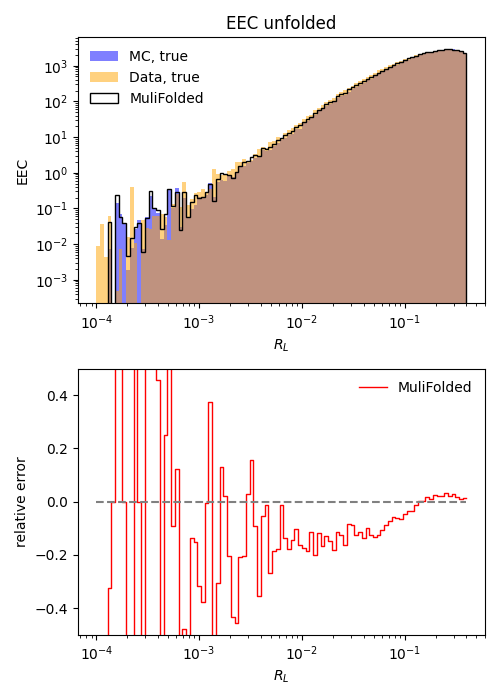
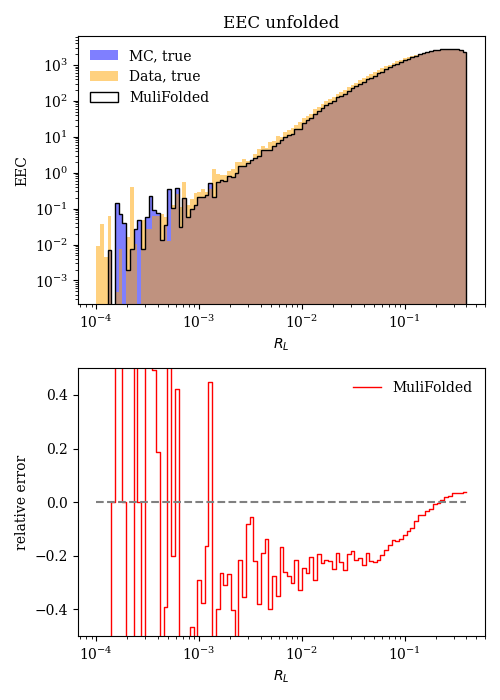
risky git commit, trying to merge hiccup and perlmutter changes

diff --git a/pp_unfolding/.ipynb_checkpoints/unfold-checkpoint.py b/pp_unfolding/.ipynb_checkpoints/unfold-checkpoint.py
@@ -112,6 +112,7 @@ theta0 = synth_df[all_features].to_numpy()
 
 
 ############# RL cut
+"""
 RL_min = 5 * (10**-3)
 
 for row in theta_unknown:    
@@ -121,6 +122,7 @@ for row in theta_unknown:
 for row in theta0:    
     if row[4] < RL_min:
         row[3:] = [-9999 for i in range(3)]
+        """
 
 
 
@@ -233,11 +235,11 @@ elif flags.level == 'jet':
     # theta_unknown = theta_unknown[theta_unknown[:,0,4] != -1]
     # theta0 = theta0[theta0[:,0,4] != -1]
     
-    theta_unknown_G = theta_unknown[:, :, 0:3]
-    theta_unknown_S = theta_unknown[:, :, 3:7]
+    theta_unknown_G = theta_unknown[:, :, 0:2]
+    theta_unknown_S = theta_unknown[:, :, 3:5]
 
-    theta0_G = theta0[:, :, 0:3]
-    theta0_S = theta0[:, :, 3:7]
+    theta0_G = theta0[:, :, 0:2]
+    theta0_S = theta0[:, :, 3:5]
     
 
     """
@@ -309,7 +311,7 @@ N = len(obs_features)
 
 binning = [np.logspace(-5,0,100),np.logspace(-4,0,100),np.linspace(20,40,100)]
 
-fig, axes = plt.subplots(1, 3, figsize=(15,4))
+fig, axes = plt.subplots(1, 2, figsize=(15,4))
 
 for i,ax in enumerate(axes.ravel()):
     if (i >= N): break
@@ -338,7 +340,7 @@ plt.close()
 
 binning = [np.linspace(-0.2,1.2,100),np.linspace(-0.2,1.2,100),np.linspace(-0.2,1.2,100)]
 
-fig, axes = plt.subplots(1, 3, figsize=(15,4))
+fig, axes = plt.subplots(1, 2, figsize=(15,4))
 
 for i,ax in enumerate(axes.ravel()):
     if (i >= N): break
@@ -399,8 +401,8 @@ print("multifolded weights")
 print(myweights)
 print(myweights.shape)
 
-flattened_weights = of.flatten_weights(myweights, theta0_G, level=flags.level)
-flattened_weights_reco = of.flatten_weights(myweights, theta0_S, level=flags.level)
+flattened_weights = of.flatten_weights(myweights, theta0_G, level=flags.level, dim=2)
+flattened_weights_reco = of.flatten_weights(myweights, theta0_S, level=flags.level, dim=2)
 
 print(80*'#')
 print("flattened weights")
@@ -415,11 +417,11 @@ N_Iterations = myweights.shape[0] # opt['General']['NITER']
 # individual distros
 
 for iteration in range(N_Iterations):
-    fig, axes = plt.subplots(3, 3, figsize=(15,11))
+    fig, axes = plt.subplots(3, 2, figsize=(15,11))
     
     # ROW 1: raw distributions
     binning = [np.logspace(-5,0,100),np.logspace(-4,0,100),np.linspace(20,40,100)]
-    for i in range(3):
+    for i in range(2):
         ax = axes[0, i]
 
         tiv = lambda x : inverses[i](flatten(x, level=flags.level))
@@ -439,7 +441,7 @@ for iteration in range(N_Iterations):
             ax.set_yscale('log')
             
     # ROW 2: residual plots
-    for i in range(3):
+    for i in range(2):
         ax = axes[1, i]
 
         tiv = lambda x : inverses[i](flatten(x, level=flags.level))
@@ -471,7 +473,7 @@ for iteration in range(N_Iterations):
             
     # ROW 3: distributions, preprocessed inputs (gaussians)
     binning = [np.linspace(-0.2,1.2,100),np.linspace(-0.2,1.2,100),np.linspace(-0.2,1.2,100)]
-    for i in range(3):
+    for i in range(2):
         ax = axes[2, i]
 
         tiv = lambda x : flatten(x, level=flags.level)
@@ -526,6 +528,21 @@ for iteration in range(N_Iterations-1):
         
 fig.tight_layout()
 fig.savefig("weights_step2_" + flags.suffix + ".png")
+plt.close()
+
+
+plt.rcParams["font.family"] = "serif"
+
+for iteration in range(N_Iterations):
+    plt.hist(myweights[iteration, 1, :], bins=50, range=(0, 4), histtype='step', stacked=True, fill=False, label="iteration "+str(iteration)+", step 2")
+
+plt.xlabel('weight value')
+plt.ylabel('counts')
+plt.legend(loc='upper right', fontsize=10, frameon=False)
+plt.title("step 2 weight distribution")
+axes = plt.gca()
+fig = plt.gcf()
+fig.savefig("weights_hist_" + flags.suffix + ".png")
 plt.close()
 
 

diff --git a/pp_unfolding/unfold.py b/pp_unfolding/unfold.py
@@ -233,11 +233,11 @@ elif flags.level == 'jet':
     # theta_unknown = theta_unknown[theta_unknown[:,0,4] != -1]
     # theta0 = theta0[theta0[:,0,4] != -1]
     
-    theta_unknown_G = theta_unknown[:, :, 0:3]
-    theta_unknown_S = theta_unknown[:, :, 3:7]
+    theta_unknown_G = theta_unknown[:, :, 0:2]
+    theta_unknown_S = theta_unknown[:, :, 3:5]
 
-    theta0_G = theta0[:, :, 0:3]
-    theta0_S = theta0[:, :, 3:7]
+    theta0_G = theta0[:, :, 0:2]
+    theta0_S = theta0[:, :, 3:5]
     
 
     """
@@ -309,7 +309,7 @@ N = len(obs_features)
 
 binning = [np.logspace(-5,0,100),np.logspace(-4,0,100),np.linspace(20,40,100)]
 
-fig, axes = plt.subplots(1, 3, figsize=(15,4))
+fig, axes = plt.subplots(1, 2, figsize=(15,4))
 
 for i,ax in enumerate(axes.ravel()):
     if (i >= N): break
@@ -338,7 +338,7 @@ plt.close()
 
 binning = [np.linspace(-0.2,1.2,100),np.linspace(-0.2,1.2,100),np.linspace(-0.2,1.2,100)]
 
-fig, axes = plt.subplots(1, 3, figsize=(15,4))
+fig, axes = plt.subplots(1, 2, figsize=(15,4))
 
 for i,ax in enumerate(axes.ravel()):
     if (i >= N): break
@@ -399,8 +399,8 @@ print("multifolded weights")
 print(myweights)
 print(myweights.shape)
 
-flattened_weights = of.flatten_weights(myweights, theta0_G, level=flags.level)
-flattened_weights_reco = of.flatten_weights(myweights, theta0_S, level=flags.level)
+flattened_weights = of.flatten_weights(myweights, theta0_G, level=flags.level, dim=2)
+flattened_weights_reco = of.flatten_weights(myweights, theta0_S, level=flags.level, dim=2)
 
 print(80*'#')
 print("flattened weights")
@@ -415,11 +415,11 @@ N_Iterations = myweights.shape[0] # opt['General']['NITER']
 # individual distros
 
 for iteration in range(N_Iterations):
-    fig, axes = plt.subplots(3, 3, figsize=(15,11))
+    fig, axes = plt.subplots(3, 2, figsize=(15,11))
     
     # ROW 1: raw distributions
     binning = [np.logspace(-5,0,100),np.logspace(-4,0,100),np.linspace(20,40,100)]
-    for i in range(3):
+    for i in range(2):
         ax = axes[0, i]
 
         tiv = lambda x : inverses[i](flatten(x, level=flags.level))
@@ -439,7 +439,7 @@ for iteration in range(N_Iterations):
             ax.set_yscale('log')
             
     # ROW 2: residual plots
-    for i in range(3):
+    for i in range(2):
         ax = axes[1, i]
 
         tiv = lambda x : inverses[i](flatten(x, level=flags.level))
@@ -471,7 +471,7 @@ for iteration in range(N_Iterations):
             
     # ROW 3: distributions, preprocessed inputs (gaussians)
     binning = [np.linspace(-0.2,1.2,100),np.linspace(-0.2,1.2,100),np.linspace(-0.2,1.2,100)]
-    for i in range(3):
+    for i in range(2):
         ax = axes[2, i]
 
         tiv = lambda x : flatten(x, level=flags.level)
@@ -526,6 +526,21 @@ for iteration in range(N_Iterations-1):
         
 fig.tight_layout()
 fig.savefig("weights_step2_" + flags.suffix + ".png")
+plt.close()
+
+
+plt.rcParams["font.family"] = "serif"
+
+for iteration in range(N_Iterations):
+    plt.hist(myweights[iteration, 1, :], bins=50, range=(0, 4), histtype='step', stacked=True, fill=False, label="iteration "+str(iteration)+", step 2")
+
+plt.xlabel('weight value')
+plt.ylabel('counts')
+plt.legend(loc='upper right', fontsize=10, frameon=False)
+plt.title("step 2 weight distribution")
+axes = plt.gca()
+fig = plt.gcf()
+fig.savefig("weights_hist_" + flags.suffix + ".png")
 plt.close()
 
 

diff --git a/pp_unfolding/.ipynb_checkpoints/omnifold-checkpoint.py b/pp_unfolding/.ipynb_checkpoints/omnifold-checkpoint.py
@@ -15,12 +15,12 @@ from dense import MLP
 
 dummyval = -1
 
-def flatten_weights(weights, theta0_G, level='pair'):
+def flatten_weights(weights, theta0_G, level='pair', dim=3):
     if level == 'pair':
         return weights
     
     # assumes jet- or event-level 3D unfolding
-    flat_theta0_G = theta0_G.reshape(-1,3)
+    flat_theta0_G = theta0_G.reshape(-1,dim)
     mask = flat_theta0_G[:,0] >= 0
     flat_weights = np.repeat(weights, theta0_G.shape[1], axis=2)
     return flat_weights[:,:,mask]
@@ -161,7 +161,7 @@ class Multifold():
             np.concatenate((np.zeros(len(self.mc_reco[self.mc_pass_reco])), np.ones(len(self.data[self.data_pass_reco])))),
             np.concatenate((self.weights_push[self.mc_pass_reco], np.ones(len(self.data[self.data_pass_reco]))))
         )
-                
+
         # self.weights_pull = self.weights_push * self.reweight(self.mc_reco,self.model)
         self.weights_pull[self.mc_pass_reco] = self.weights_push[self.mc_pass_reco] * self.reweight(self.mc_reco[self.mc_pass_reco],self.model)
         
@@ -172,14 +172,14 @@ class Multifold():
         # Another option is to assign the average weight: <w|x_true>.  To do this, we need to estimate this quantity.
         num_not_pass_reco = self.mc_gen[self.not_mc_pass_reco].shape[0]
         print("percentage mc not passing reco = " + str(num_not_pass_reco) + "/" + str(self.mc_reco.shape[0]) + " = " + str(num_not_pass_reco/self.mc_reco.shape[0]))
-              
+        
         if (num_not_pass_reco > 0):
             print("RUNNING STEP 1B")
             
             """
             self.weights_pull[self.not_mc_pass_reco] = 1
             """
-            
+        
             """
             self.RunModel_New(
                 np.concatenate((self.mc_gen[self.mc_pass_reco], self.mc_gen[self.mc_pass_reco])),
@@ -192,8 +192,7 @@ class Multifold():
             self.weights_pull[self.not_mc_pass_reco] = average_vals
 
             """
-
-            
+            """
             self.RunModel_Old(
                 np.concatenate((self.mc_gen[self.mc_pass_reco], self.mc_gen[self.mc_pass_reco])),
                 np.concatenate((np.ones(len(self.mc_gen[self.mc_pass_reco])), np.zeros(len(self.mc_gen[self.mc_pass_reco])))),
@@ -202,6 +201,7 @@ class Multifold():
 
             average_vals = self.reweight(self.mc_gen[self.not_mc_pass_reco], self.model)
             self.weights_pull[self.not_mc_pass_reco] = average_vals
+            """
         
             
             # end of STEP 1B
@@ -213,6 +213,9 @@ class Multifold():
     def RunStep2(self,i):
         '''Gen to Gen reweighing'''        
         print("RUNNING STEP 2")
+        
+        self.weights[i, 1:2, :] = self.weights_push
+        return
         
         
         self.RunModel_Old(

diff --git a/pp_unfolding/omnifold.py b/pp_unfolding/omnifold.py
@@ -15,12 +15,12 @@ from dense import MLP
 
 dummyval = -1
 
-def flatten_weights(weights, theta0_G, level='pair'):
+def flatten_weights(weights, theta0_G, level='pair', dim=3):
     if level == 'pair':
         return weights
     
     # assumes jet- or event-level 3D unfolding
-    flat_theta0_G = theta0_G.reshape(-1,3)
+    flat_theta0_G = theta0_G.reshape(-1,dim)
     mask = flat_theta0_G[:,0] >= 0
     flat_weights = np.repeat(weights, theta0_G.shape[1], axis=2)
     return flat_weights[:,:,mask]
@@ -161,7 +161,7 @@ class Multifold():
             np.concatenate((np.zeros(len(self.mc_reco[self.mc_pass_reco])), np.ones(len(self.data[self.data_pass_reco])))),
             np.concatenate((self.weights_push[self.mc_pass_reco], np.ones(len(self.data[self.data_pass_reco]))))
         )
-                
+
         # self.weights_pull = self.weights_push * self.reweight(self.mc_reco,self.model)
         self.weights_pull[self.mc_pass_reco] = self.weights_push[self.mc_pass_reco] * self.reweight(self.mc_reco[self.mc_pass_reco],self.model)
         
@@ -172,14 +172,14 @@ class Multifold():
         # Another option is to assign the average weight: <w|x_true>.  To do this, we need to estimate this quantity.
         num_not_pass_reco = self.mc_gen[self.not_mc_pass_reco].shape[0]
         print("percentage mc not passing reco = " + str(num_not_pass_reco) + "/" + str(self.mc_reco.shape[0]) + " = " + str(num_not_pass_reco/self.mc_reco.shape[0]))
-              
+        
         if (num_not_pass_reco > 0):
             print("RUNNING STEP 1B")
             
             """
             self.weights_pull[self.not_mc_pass_reco] = 1
             """
-            
+        
             """
             self.RunModel_New(
                 np.concatenate((self.mc_gen[self.mc_pass_reco], self.mc_gen[self.mc_pass_reco])),
@@ -192,8 +192,7 @@ class Multifold():
             self.weights_pull[self.not_mc_pass_reco] = average_vals
 
             """
-
-            
+            """
             self.RunModel_Old(
                 np.concatenate((self.mc_gen[self.mc_pass_reco], self.mc_gen[self.mc_pass_reco])),
                 np.concatenate((np.ones(len(self.mc_gen[self.mc_pass_reco])), np.zeros(len(self.mc_gen[self.mc_pass_reco])))),
@@ -202,6 +201,7 @@ class Multifold():
 
             average_vals = self.reweight(self.mc_gen[self.not_mc_pass_reco], self.model)
             self.weights_pull[self.not_mc_pass_reco] = average_vals
+            """
         
             
             # end of STEP 1B
@@ -213,6 +213,9 @@ class Multifold():
     def RunStep2(self,i):
         '''Gen to Gen reweighing'''        
         print("RUNNING STEP 2")
+        
+        self.weights[i, 1:2, :] = self.weights_push
+        return
         
         
         self.RunModel_Old(
